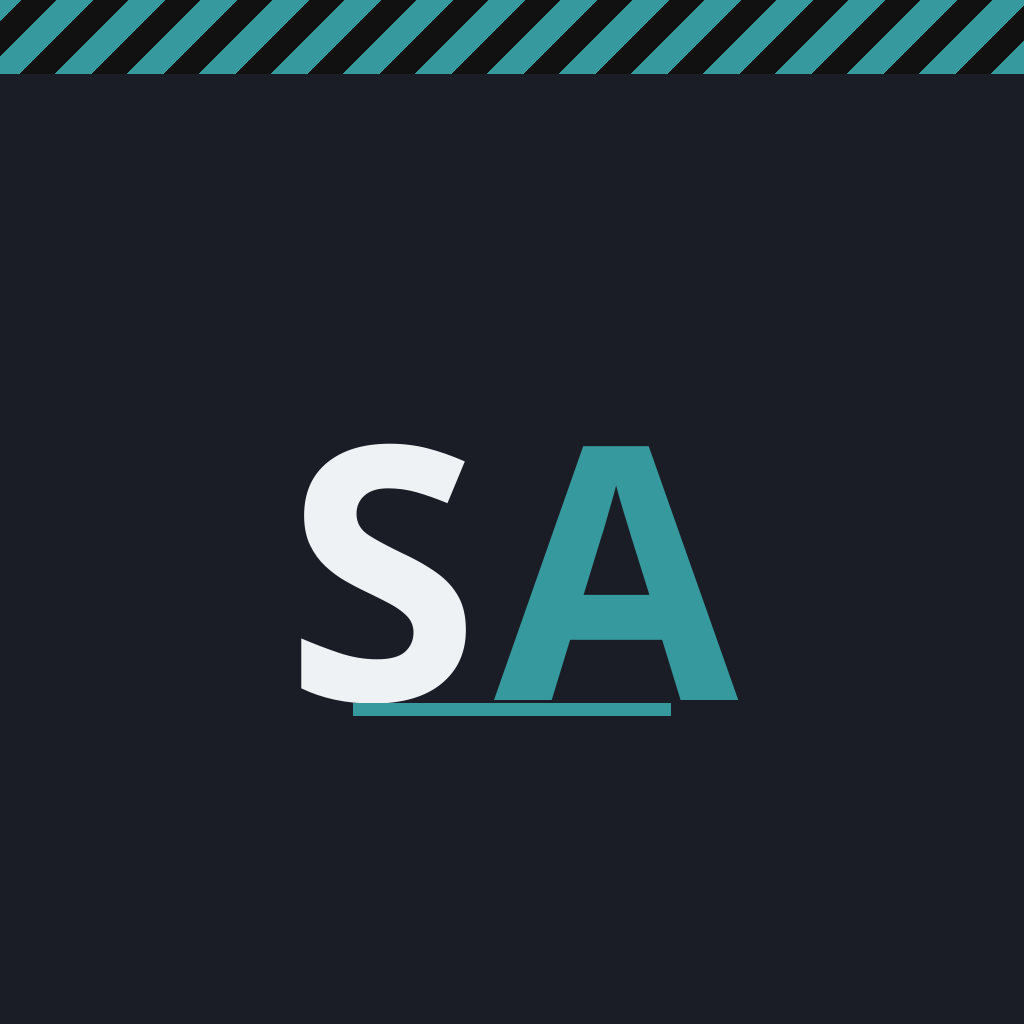
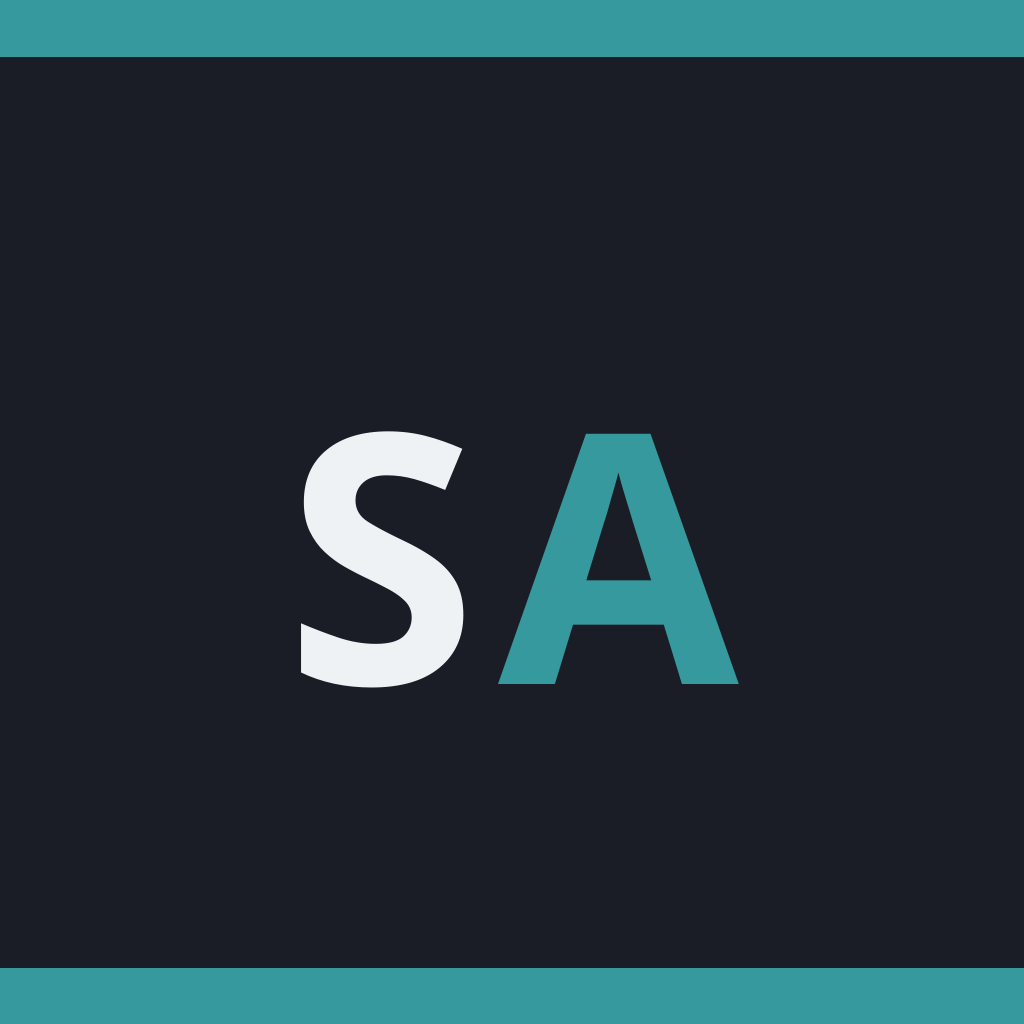
Drop leftover session keys and dead map styles.
Read only the current sa: storage keys, remove the unused menu boot and map rules, and match the large icon stripes to the smaller marks.

diff --git a/shell.css b/shell.css
@@ -1979,7 +1979,7 @@ body.stock-act-v2 .muted, body.stock-act-v2 .drop-meta, body.stock-act-v2 .count
 body.stock-act-v2 .panel, body.stock-act-v2 article.study,
 body.stock-act-v2 .explain, body.stock-act-v2 .holdings, body.stock-act-v2 .allocator, body.stock-act-v2 .bio-wrap,
 body.stock-act-v2 details.how, body.stock-act-v2 .paper-filters,
-body.stock-act-v2 .stage, body.stock-act-v2 .exited, body.stock-act-v2 .issuer-chart {
+body.stock-act-v2 .stage {
   background: var(--v2-card); border-color: var(--v2-border); border-radius: 14px;
 }
 /* accent cards: the colored left stripe carries meaning (buy, avoid, watch, conflict...), so only
@@ -1999,7 +1999,7 @@ body.stock-act-v2 .ago, body.stock-act-v2 .opp, body.stock-act-v2 .did-mean,
 body.stock-act-v2 .sources a { color: var(--v2-teal-fg); }
 body.stock-act-v2 .alloc-sort-label, body.stock-act-v2 .bio .subhead { color: var(--v2-sub); }
 body.stock-act-v2 .who-list a:hover, body.stock-act-v2 .card h3 a:hover, body.stock-act-v2 .tk:hover, body.stock-act-v2 .tk-link:hover,
-body.stock-act-v2 .issuer-chart-head a:hover, body.stock-act-v2 .who:hover { color: var(--v2-teal-fg); }
+body.stock-act-v2 .who:hover { color: var(--v2-teal-fg); }
 
 body.stock-act-v2 .drop-head { border-bottom: 1px solid var(--v2-line); }
 body.stock-act-v2 .gate, body.stock-act-v2 .lag { color: var(--v2-buy-text); }
@@ -2083,20 +2083,6 @@ body.stock-act-v2 .hud, body.stock-act-v2 .layers, body.stock-act-v2 .status { b
 body.stock-act-v2 #search-results { border-color: var(--v2-border); border-radius: 12px; background: var(--v2-card); }
 body.stock-act-v2 #search-results button { border-color: var(--v2-line); }
 body.stock-act-v2 .hit .who, body.stock-act-v2 .pop .holder { color: var(--v2-buy-text); }
-body.stock-act-v2 button.camp { border-color: var(--v2-border); border-radius: 10px; }
-body.stock-act-v2 .maplibregl-popup-content { border-color: var(--v2-border); border-radius: 12px; }
-
-@media (min-width: 821px) {
-  body.stock-act-v2 .layers-toggle,
-  body.stock-act-v2 .legend-more {
-    border-radius: 10px; border: 1px solid var(--v2-border); background: transparent; color: var(--white, #eef2f5);
-    font-family: "Barlow Condensed", sans-serif; font-weight: 700; letter-spacing: 0.1em;
-  }
-  body.stock-act-v2 .layers-toggle:hover, body.stock-act-v2 .legend-more:hover {
-    border-color: var(--v2-buy-bar); color: var(--v2-buy-text); background: transparent;
-  }
-}
-
 body.stock-act-v2 .stock-act-follow-alerts { background: var(--v2-card); border: 1px solid var(--v2-border); border-radius: 14px; }
 body.stock-act-v2 .stock-act-follow-alerts .hd { color: var(--white, #eef2f5); }
 body.stock-act-v2 .stock-act-follow-alerts .acts a:hover, body.stock-act-v2 .stock-act-follow-alerts .acts button:hover { border-color: var(--v2-buy-bar); color: var(--v2-buy-text); }
@@ -2120,7 +2106,6 @@ body.stock-act-v2 .stock-act-plan-tag { color: var(--paper, #d8dde3); border-col
   body.stock-act-v2 .holdings .focus .mark-pop .pop-close { position: relative; }
   body.stock-act-v2 .holdings .focus .mark-pop .pop-close::after { content: ""; position: absolute; inset: -11px; }
   body.stock-act-v2 #search-form input, body.stock-act-v2 #search-form button, body.stock-act-v2 #search { min-height: 44px; }
-  body.stock-act-v2 .maplibregl-ctrl-group button { width: 44px; height: 44px; }
   body.stock-act-v2 .layers label, body.stock-act-v2 .layers .swatch { min-height: 44px; }
 }
 

diff --git a/stock-act.js b/stock-act.js
@@ -1947,7 +1947,6 @@
   }
 
   const RETURN_KEY = "sa:return";
-  const RETURN_KEY_OLD = "qc:return";
   let replaceWrapped = false;
   const PAGE_LABELS = {
     "index.html": "Tape",
@@ -2012,38 +2011,16 @@
 
   const SCROLL_PREFIX = "sa:sy:";
   const SCROLL_BACK = "sa:scroll-back";
-  const SCROLL_BACK_OLD = "qc:scroll-back";
 
-  // One read of the pre-split key. A hit is copied onto the new key and the old key is removed.
-  function readMovedKey(key, oldKey) {
+  function readStoredKey(key) {
     const stores = [];
     try { stores.push(sessionStorage); } catch (e) {}
     try { stores.push(localStorage); } catch (e) {}
     for (let i = 0; i < stores.length; i++) {
-      let current = null;
       try {
-        current = stores[i].getItem(key);
-      } catch (e) {
-        continue;
-      }
-      if (current != null) return current;
-      let previous = null;
-      try {
-        previous = stores[i].getItem(oldKey);
-      } catch (e) {
-        continue;
-      }
-      if (previous == null) continue;
-      const home = stores[0] || stores[i];
-      try {
-        home.setItem(key, previous);
-      } catch (e) {
-        return previous;
-      }
-      for (let j = 0; j < stores.length; j++) {
-        try { stores[j].removeItem(oldKey); } catch (e) {}
-      }
-      return previous;
+        const current = stores[i].getItem(key);
+        if (current != null) return current;
+      } catch (e) {}
     }
     return null;
   }
@@ -2106,7 +2083,7 @@
 
   function shouldRestoreScroll() {
     try {
-      if (readMovedKey(SCROLL_BACK, SCROLL_BACK_OLD) === location.pathname + location.search) return true;
+      if (readStoredKey(SCROLL_BACK) === location.pathname + location.search) return true;
     } catch (e) {}
     return navIsBack();
   }
@@ -2192,7 +2169,7 @@
 
   function storedReturn() {
     try {
-      const v = readMovedKey(RETURN_KEY, RETURN_KEY_OLD);
+      const v = readStoredKey(RETURN_KEY);
       if (!v || !isSaHref(v)) return "";
       const u = new URL(v, location.href);
       if (pageFile(u.pathname) === pageFile(location.pathname)) return "";
@@ -2409,22 +2386,6 @@
     });
   }
 
-  function bootMoreMenu() {
-    document.addEventListener("click", function (e) {
-      document.querySelectorAll("details.stock-act-more[open]").forEach(function (d) {
-        if (!d.contains(e.target)) d.removeAttribute("open");
-      });
-    });
-    document.addEventListener("keydown", function (e) {
-      if (e.key !== "Escape") return;
-      document.querySelectorAll("details.stock-act-more[open]").forEach(function (d) {
-        d.removeAttribute("open");
-        const s = d.querySelector("summary");
-        if (s) s.focus();
-      });
-    });
-  }
-
   function bootNav() {
     const file = pageFile(location.pathname);
     if (LIST_FILES[file]) {
@@ -2440,7 +2401,6 @@
     }
   }
 
-  bootMoreMenu();
   if (document.readyState === "loading") document.addEventListener("DOMContentLoaded", bootNav);
   else bootNav();
 

diff --git a/index.html b/index.html
@@ -1604,7 +1604,7 @@
       text-align: center;
     }
   </style>
-  <link rel="stylesheet" href="shell.css?v=185" />
+  <link rel="stylesheet" href="shell.css?v=186" />
   <style id="stock-act-tape-port">
     .stock-act-txn { display: grid; grid-template-columns: minmax(0, 1fr) max-content; grid-template-areas: "id end" "meta meta"; column-gap: 10px; row-gap: 2px; align-items: center; min-width: 0; width: 100%; max-width: 100%; box-sizing: border-box; overflow: hidden; border-left-width: 4px; border-radius: 10px; }
     .stock-act-txn-id { grid-area: id; min-width: 0; overflow: hidden; }
@@ -2618,7 +2618,7 @@
   <div class="stripe" hidden></div>
   </div>
 
-  <script src="stock-act.js?v=151"></script>
+  <script src="stock-act.js?v=152"></script>
   <script src="chart.js?v=126"></script>
   <script>
     function escapeHtml(s) {

diff --git a/ticker.html b/ticker.html
@@ -580,7 +580,7 @@
       body { padding-bottom: calc(44px + env(safe-area-inset-bottom, 0px) + 8px); }
     }
   </style>
-  <link rel="stylesheet" href="shell.css?v=185" />
+  <link rel="stylesheet" href="shell.css?v=186" />
   <style>
     .stock-act-txn .opt-tag.opt-call, .opt-tag.opt-call { border-color: #36999d; color: #8fd4d6; }
     .stock-act-txn .opt-tag.opt-put, .opt-tag.opt-put { border-color: #8b96a3; color: #b8c0c8; }
@@ -641,7 +641,7 @@
     </div>
     <footer>Not investment advice · STOCK Act ranges, not share counts</footer>
   </div>
-  <script src="stock-act.js?v=151"></script>
+  <script src="stock-act.js?v=152"></script>
   <script src="chart.js?v=126"></script>
   <script>
     const params = new URLSearchParams(location.search);

diff --git a/politician.html b/politician.html
@@ -649,7 +649,7 @@
       font-family: "IBM Plex Sans", sans-serif;
     }
   </style>
-  <link rel="stylesheet" href="shell.css?v=185" />
+  <link rel="stylesheet" href="shell.css?v=186" />
   <style>
     .stock-act-txn .opt-tag.opt-call, .opt-tag.opt-call { border-color: #36999d; color: #8fd4d6; }
     .stock-act-txn .opt-tag.opt-put, .opt-tag.opt-put { border-color: #8b96a3; color: #b8c0c8; }
@@ -733,7 +733,7 @@
     </div>
     <footer>Not investment advice · STOCK Act ranges, not share counts</footer>
   </div>
-  <script src="stock-act.js?v=151"></script>
+  <script src="stock-act.js?v=152"></script>
   <script src="chart.js?v=126"></script>
   <script>
     const isOptionLike = SA.isOptionLike;

diff --git a/paper.html b/paper.html
@@ -217,7 +217,7 @@
       .kicker { margin: 8px 0 4px; }
     }
   </style>
-  <link rel="stylesheet" href="shell.css?v=185" />
+  <link rel="stylesheet" href="shell.css?v=186" />
 </head>
 <body class="stock-act-v2 stock-act-v2-cards">
   <a class="stock-act-skip" href="#main">Skip to content</a>
@@ -276,7 +276,7 @@
       <a href="mailto:gordojr@proton.me">Transmit</a>
     </div>
   </footer>
-  <script src="stock-act.js?v=151"></script>
+  <script src="stock-act.js?v=152"></script>
   <script>
     if (window.matchMedia("(max-width: 820px)").matches) {
       const f = document.querySelector(".paper-filters");

diff --git a/landed.html b/landed.html
@@ -229,7 +229,7 @@
       h1 { font-size: 1.35rem; }
     }
   </style>
-  <link rel="stylesheet" href="shell.css?v=185" />
+  <link rel="stylesheet" href="shell.css?v=186" />
 </head>
 <body class="stock-act-v2 stock-act-v2-cards">
   <a class="stock-act-skip" href="#main">Skip to content</a>
@@ -266,7 +266,7 @@
       <a href="mailto:gordojr@proton.me">Transmit</a>
     </div>
   </footer>
-  <script src="stock-act.js?v=151"></script>
+  <script src="stock-act.js?v=152"></script>
   <script>
     const WINDOWS = [72, 168, 336];
     const params = new URLSearchParams(location.search);

diff --git a/tells.html b/tells.html
@@ -163,7 +163,7 @@
       h1 { font-size: 1.35rem; }
     }
   </style>
-  <link rel="stylesheet" href="shell.css?v=185" />
+  <link rel="stylesheet" href="shell.css?v=186" />
 </head>
 <body class="stock-act-v2 stock-act-v2-cards">
   <a class="stock-act-skip" href="#main">Skip to content</a>
@@ -203,7 +203,7 @@
       <a href="mailto:gordojr@proton.me">Transmit</a>
     </div>
   </footer>
-  <script src="stock-act.js?v=151"></script>
+  <script src="stock-act.js?v=152"></script>
   <script>
     function pct(x) {
       if (x == null || isNaN(x)) return "—";

diff --git a/signals.html b/signals.html
@@ -444,7 +444,7 @@
       h1 { font-size: 1.35rem; }
     }
   </style>
-  <link rel="stylesheet" href="shell.css?v=185" />
+  <link rel="stylesheet" href="shell.css?v=186" />
 </head>
 <body class="stock-act-v2">
   <a class="stock-act-skip" href="#main">Skip to content</a>
@@ -488,7 +488,7 @@
       <a href="mailto:gordojr@proton.me">Transmit</a>
     </div>
   </footer>
-  <script src="stock-act.js?v=151"></script>
+  <script src="stock-act.js?v=152"></script>
   <script>
     const HALF = 10;
     const WINDOWS = [14, 30, 90];

diff --git a/sw.js b/sw.js
@@ -1,4 +1,4 @@
-const CACHE = "stock-act-v16";
+const CACHE = "stock-act-v17";
 const SHELL = [
   "./",
   "./index.html",
